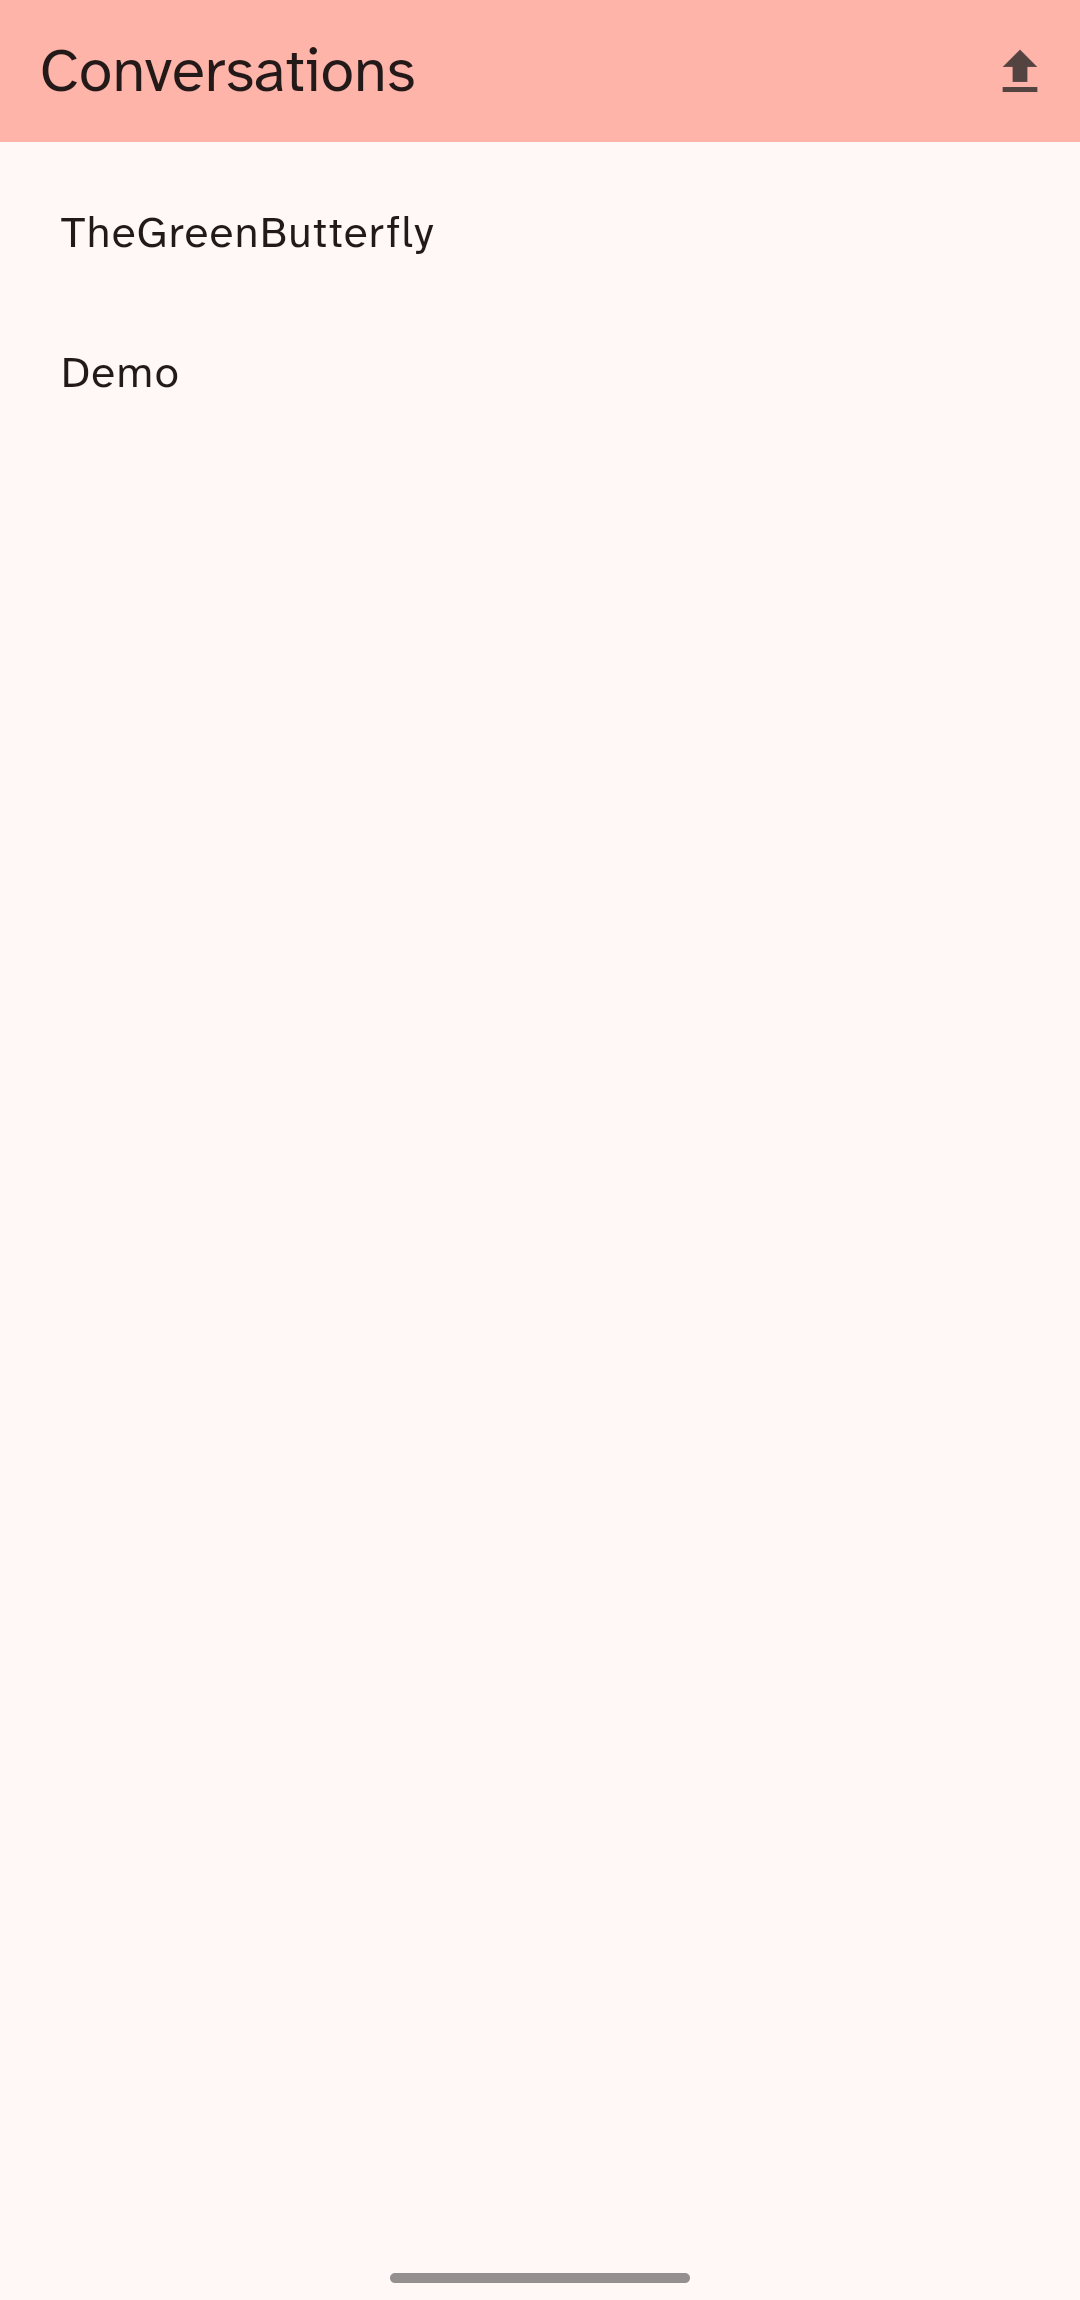
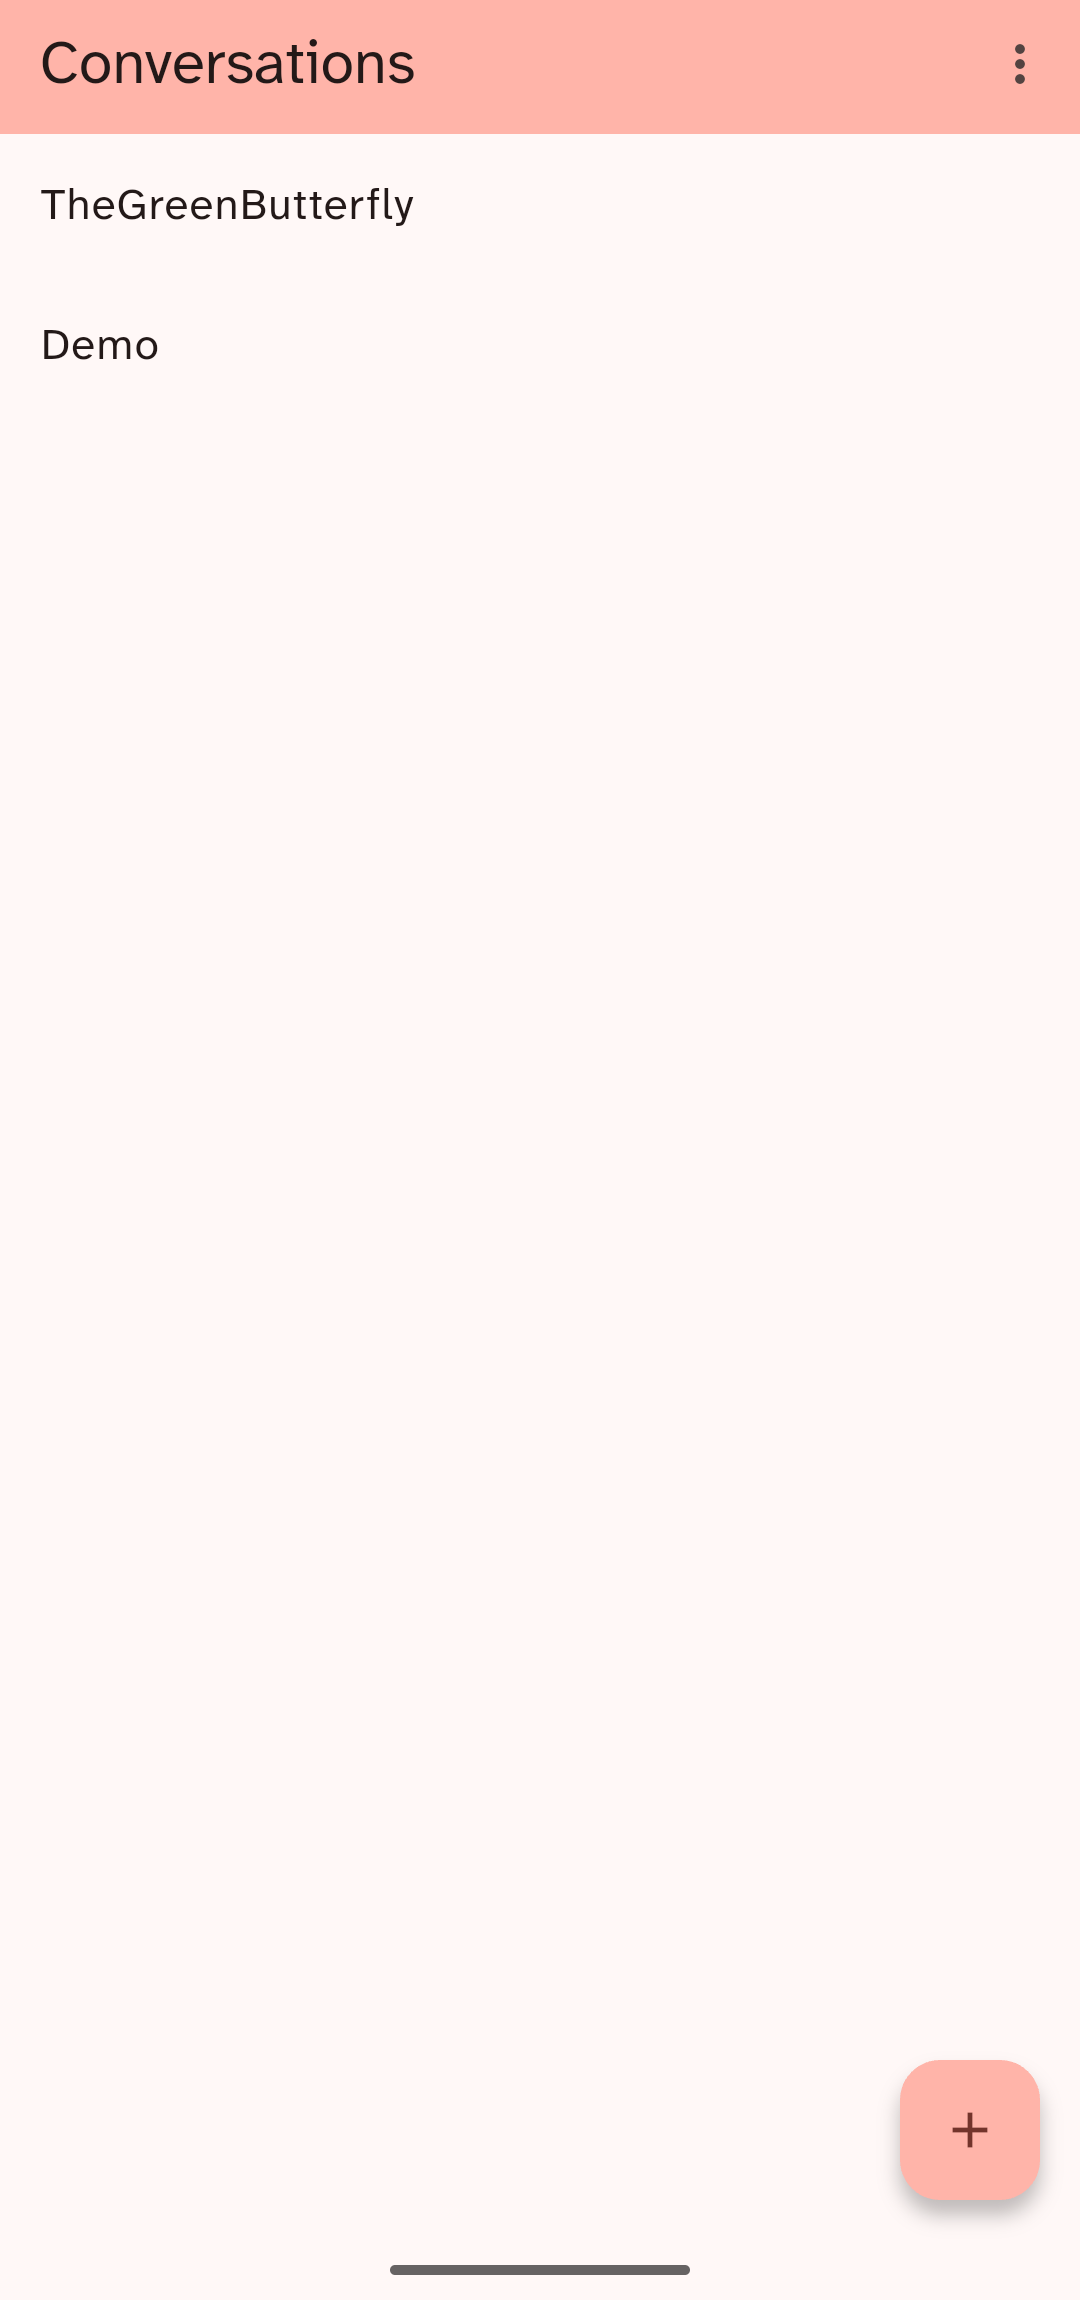
feat: add an about page
- Add `ActionMenuButton` and `ActionMenuItem` widgets for building popup menus.
- Add an `AboutPage` (view) showing app info, links and author info.
- Add action menu in `ConversationListView` app bar with About item to
  open the `AboutPage`.
- Add `url_launcher` to dependencies.
- Update home page screenshot.

diff --git a/lib/views/about_page.dart b/lib/views/about_page.dart
@@ -1,0 +1,283 @@
+/*
+  SPDX-FileCopyrightText: 2026 Siddhant Sharma <sharmasiddhant@proton.me>
+
+  SPDX-License-Identifier: GPL-3.0-or-later
+*/
+
+import 'package:flutter/services.dart';
+import 'package:material_ui/material_ui.dart';
+import 'package:url_launcher/url_launcher.dart';
+
+class AboutPage extends StatelessWidget {
+  const AboutPage({super.key});
+
+  static const String _devGitHubUrl = 'https://github.com/shsiddhant';
+  static const String _sourceCodeUrl = 'https://github.com/shsiddhant/phire';
+  static const String _issuesUrl = 'https://github.com/shsiddhant/phire/issues';
+  static const String _licenseUrl =
+      'https://github.com/shsiddhant/phire/blob/main/LICENSE';
+  static const String _donateUrl = 'https://ko-fi.com/shsiddhant';
+
+  static const String _description =
+      'A conversation reader that reimagines your chat history into a book-like structured reading experience.';
+
+  static Future<void> _openEmail(BuildContext context) async {
+    const email = 'sharmasiddhant@proton.me';
+    final Uri emailUri = Uri(
+      scheme: 'mailto',
+      path: email,
+      query: 'subject=${Uri.encodeComponent('Phire')}',
+    );
+
+    try {
+      final launched = await launchUrl(emailUri);
+      if (!launched) throw Exception('Launch failed');
+    } catch (_) {
+      await Clipboard.setData(const ClipboardData(text: email));
+      if (context.mounted) {
+        ScaffoldMessenger.of(context).showSnackBar(
+          const SnackBar(
+            content: Text(
+              'No email app found. Email address copied to clipboard',
+            ),
+            duration: Duration(seconds: 3),
+          ),
+        );
+      }
+    }
+  }
+
+  static Future<void> _openUrl(BuildContext context, String urlString) async {
+    final Uri url = Uri.parse(urlString);
+    try {
+      final launched = await launchUrl(url, mode: .externalApplication);
+      if (!launched && context.mounted) {
+        ScaffoldMessenger.of(
+          context,
+        ).showSnackBar(SnackBar(content: Text('Could not open $urlString')));
+      }
+    } catch (_) {
+      if (context.mounted) {
+        ScaffoldMessenger.of(context).showSnackBar(
+          SnackBar(content: Text('No app found to open $urlString')),
+        );
+      }
+    }
+  }
+
+  @override
+  Widget build(BuildContext context) {
+    final colorScheme = Theme.of(context).colorScheme;
+    return Scaffold(
+      appBar: AppBar(
+        backgroundColor: colorScheme.inversePrimary,
+        title: Text('About'),
+      ),
+      body: SingleChildScrollView(
+        padding: const EdgeInsets.all(12),
+        child: Column(
+          crossAxisAlignment: CrossAxisAlignment.stretch,
+          children: const [
+            _TitleCard(),
+            SizedBox(height: 24),
+            _AboutActionsGrid(),
+            SizedBox(height: 24),
+            _CreditsAndLicenseCard(),
+          ],
+        ),
+      ),
+    );
+  }
+}
+
+class _TitleCard extends StatelessWidget {
+  const _TitleCard();
+
+  @override
+  Widget build(BuildContext context) {
+    final colorScheme = Theme.of(context).colorScheme;
+    final textTheme = Theme.of(context).textTheme;
+    return Card(
+      child: Padding(
+        padding: EdgeInsetsGeometry.symmetric(vertical: 8, horizontal: 12),
+        child: Column(
+          crossAxisAlignment: .start,
+          children: [
+            Row(
+              children: [
+                Container(
+                  width: 56,
+                  height: 56,
+                  alignment: Alignment.center,
+                  decoration: BoxDecoration(
+                    color: colorScheme.primaryContainer,
+                    borderRadius: BorderRadius.circular(14),
+                  ),
+                  child: Text(
+                    'ফ',
+                    style: TextStyle(
+                      fontSize: 36,
+                      fontWeight: FontWeight.w600,
+                      color: colorScheme.onPrimaryContainer,
+                    ),
+                  ),
+                ),
+                const SizedBox(width: 16),
+                const Column(
+                  crossAxisAlignment: .start,
+                  children: [
+                    Text(
+                      'Phire',
+                      style: TextStyle(
+                        fontSize: 21,
+                        fontWeight: FontWeight.w500,
+                      ),
+                    ),
+                    SizedBox(height: 2),
+                    Text('Version 1.0.0'),
+                  ],
+                ),
+              ],
+            ),
+            const SizedBox(height: 12),
+            Text(
+              AboutPage._description,
+              style: textTheme.bodyMedium?.copyWith(
+                color: colorScheme.onSurfaceVariant,
+              ),
+            ),
+          ],
+        ),
+      ),
+    );
+  }
+}
+
+class _AboutActionsGrid extends StatelessWidget {
+  const _AboutActionsGrid();
+
+  @override
+  Widget build(BuildContext context) {
+    return Center(
+      child: ConstrainedBox(
+        constraints: const BoxConstraints(maxWidth: 480),
+        child: GridView.count(
+          crossAxisCount: 2,
+          shrinkWrap: true,
+          physics: const NeverScrollableScrollPhysics(),
+          childAspectRatio: 1.6,
+          children: [
+            _AboutAction(
+              icon: Icons.code,
+              title: 'Source Code',
+              onTap: () =>
+                  AboutPage._openUrl(context, AboutPage._sourceCodeUrl),
+            ),
+            _AboutAction(
+              icon: Icons.bug_report,
+              title: 'Issues',
+              onTap: () => AboutPage._openUrl(context, AboutPage._issuesUrl),
+            ),
+            _AboutAction(
+              icon: Icons.favorite_outline,
+              title: 'Donate',
+              onTap: () => AboutPage._openUrl(context, AboutPage._donateUrl),
+            ),
+            _AboutAction(
+              icon: Icons.gavel,
+              title: 'Third-party Licenses',
+              onTap: () => showLicensePage(
+                context: context,
+                applicationName: 'Phire',
+                applicationVersion: '1.0.0',
+                applicationLegalese: '© 2026 Siddhant Sharma\nGPL-3.0-or-later',
+              ),
+            ),
+          ],
+        ),
+      ),
+    );
+  }
+}
+
+class _AboutAction extends StatelessWidget {
+  final IconData icon;
+  final String title;
+  final VoidCallback onTap;
+
+  const _AboutAction({
+    required this.icon,
+    required this.title,
+    required this.onTap,
+  });
+
+  @override
+  Widget build(BuildContext context) {
+    final colorScheme = Theme.of(context).colorScheme;
+    return InkWell(
+      onTap: onTap,
+      borderRadius: BorderRadius.circular(16),
+      child: Padding(
+        padding: const EdgeInsets.all(12),
+        child: Column(
+          mainAxisAlignment: MainAxisAlignment.center,
+          children: [
+            Icon(icon, size: 26, color: colorScheme.primary),
+            const SizedBox(height: 10),
+            Text(
+              title,
+              textAlign: TextAlign.center,
+              style: const TextStyle(fontWeight: FontWeight.w500, fontSize: 14),
+            ),
+          ],
+        ),
+      ),
+    );
+  }
+}
+
+class _CreditsAndLicenseCard extends StatelessWidget {
+  const _CreditsAndLicenseCard();
+
+  @override
+  Widget build(BuildContext context) {
+    final colorScheme = Theme.of(context).colorScheme;
+    final textTheme = Theme.of(context).textTheme;
+
+    return Card(
+      clipBehavior: Clip.antiAlias,
+      child: Column(
+        crossAxisAlignment: CrossAxisAlignment.start,
+        children: [
+          Padding(
+            padding: const EdgeInsets.fromLTRB(16, 14, 16, 4),
+            child: Text(
+              'Authors & License',
+              style: textTheme.labelLarge?.copyWith(
+                color: colorScheme.primary,
+                fontWeight: FontWeight.w600,
+              ),
+            ),
+          ),
+          ListTile(
+            leading: const Icon(Icons.person_outline),
+            title: const Text('Siddhant Sharma'),
+            subtitle: const Text('Developer'),
+            trailing: IconButton(
+              icon: const Icon(Icons.mail_outline),
+              tooltip: 'Email Author',
+              onPressed: () => AboutPage._openEmail(context),
+            ),
+            onTap: () => AboutPage._openUrl(context, AboutPage._devGitHubUrl),
+          ),
+          const Divider(height: 1, indent: 16, endIndent: 16),
+          ListTile(
+            leading: const Icon(Icons.balance),
+            title: const Text('GNU General Public License v3.0+'),
+            onTap: () => AboutPage._openUrl(context, AboutPage._licenseUrl),
+          ),
+        ],
+      ),
+    );
+  }
+}

diff --git a/lib/views/conversation_list_view.dart b/lib/views/conversation_list_view.dart
@@ -7,6 +7,8 @@
 import 'package:cupertino_ui/cupertino_ui.dart';
 import 'package:material_ui/material_ui.dart';
 import '../models/conversation.dart';
+import '../widgets/action_menu.dart';
+import 'about_page.dart';
 import 'reader_view.dart';
 
 class ConversationListView extends StatelessWidget {
@@ -26,6 +28,20 @@ class ConversationListView extends StatelessWidget {
       appBar: AppBar(
         backgroundColor: colorScheme.inversePrimary,
         title: Text('Conversations'),
+        actions: [
+          ActionMenuButton(
+            actions: [
+              ActionMenuItem(
+                label: 'About',
+                icon: Icons.info,
+                onTap: () => Navigator.push(
+                  context,
+                  CupertinoPageRoute(builder: (context) => AboutPage()),
+                ),
+              ),
+            ],
+          ),
+        ],
       ),
       body: conversations.isEmpty
           ? Center(

diff --git a/macos/Flutter/GeneratedPluginRegistrant.swift b/macos/Flutter/GeneratedPluginRegistrant.swift
@@ -6,7 +6,9 @@ import FlutterMacOS
 import Foundation
 
 import file_picker_darwin
+import url_launcher_macos
 
 func RegisterGeneratedPlugins(registry: FlutterPluginRegistry) {
   FilePickerPlugin.register(with: registry.registrar(forPlugin: "FilePickerPlugin"))
+  UrlLauncherPlugin.register(with: registry.registrar(forPlugin: "UrlLauncherPlugin"))
 }

diff --git a/linux/flutter/generated_plugin_registrant.cc b/linux/flutter/generated_plugin_registrant.cc
@@ -6,6 +6,10 @@
 
 #include "generated_plugin_registrant.h"
 
+#include <url_launcher_linux/url_launcher_plugin.h>
 
 void fl_register_plugins(FlPluginRegistry* registry) {
+  g_autoptr(FlPluginRegistrar) url_launcher_linux_registrar =
+      fl_plugin_registry_get_registrar_for_plugin(registry, "UrlLauncherPlugin");
+  url_launcher_plugin_register_with_registrar(url_launcher_linux_registrar);
 }

diff --git a/windows/flutter/generated_plugin_registrant.cc b/windows/flutter/generated_plugin_registrant.cc
@@ -6,6 +6,9 @@
 
 #include "generated_plugin_registrant.h"
 
+#include <url_launcher_windows/url_launcher_windows.h>
 
 void RegisterPlugins(flutter::PluginRegistry* registry) {
+  UrlLauncherWindowsRegisterWithRegistrar(
+      registry->GetRegistrarForPlugin("UrlLauncherWindows"));
 }
